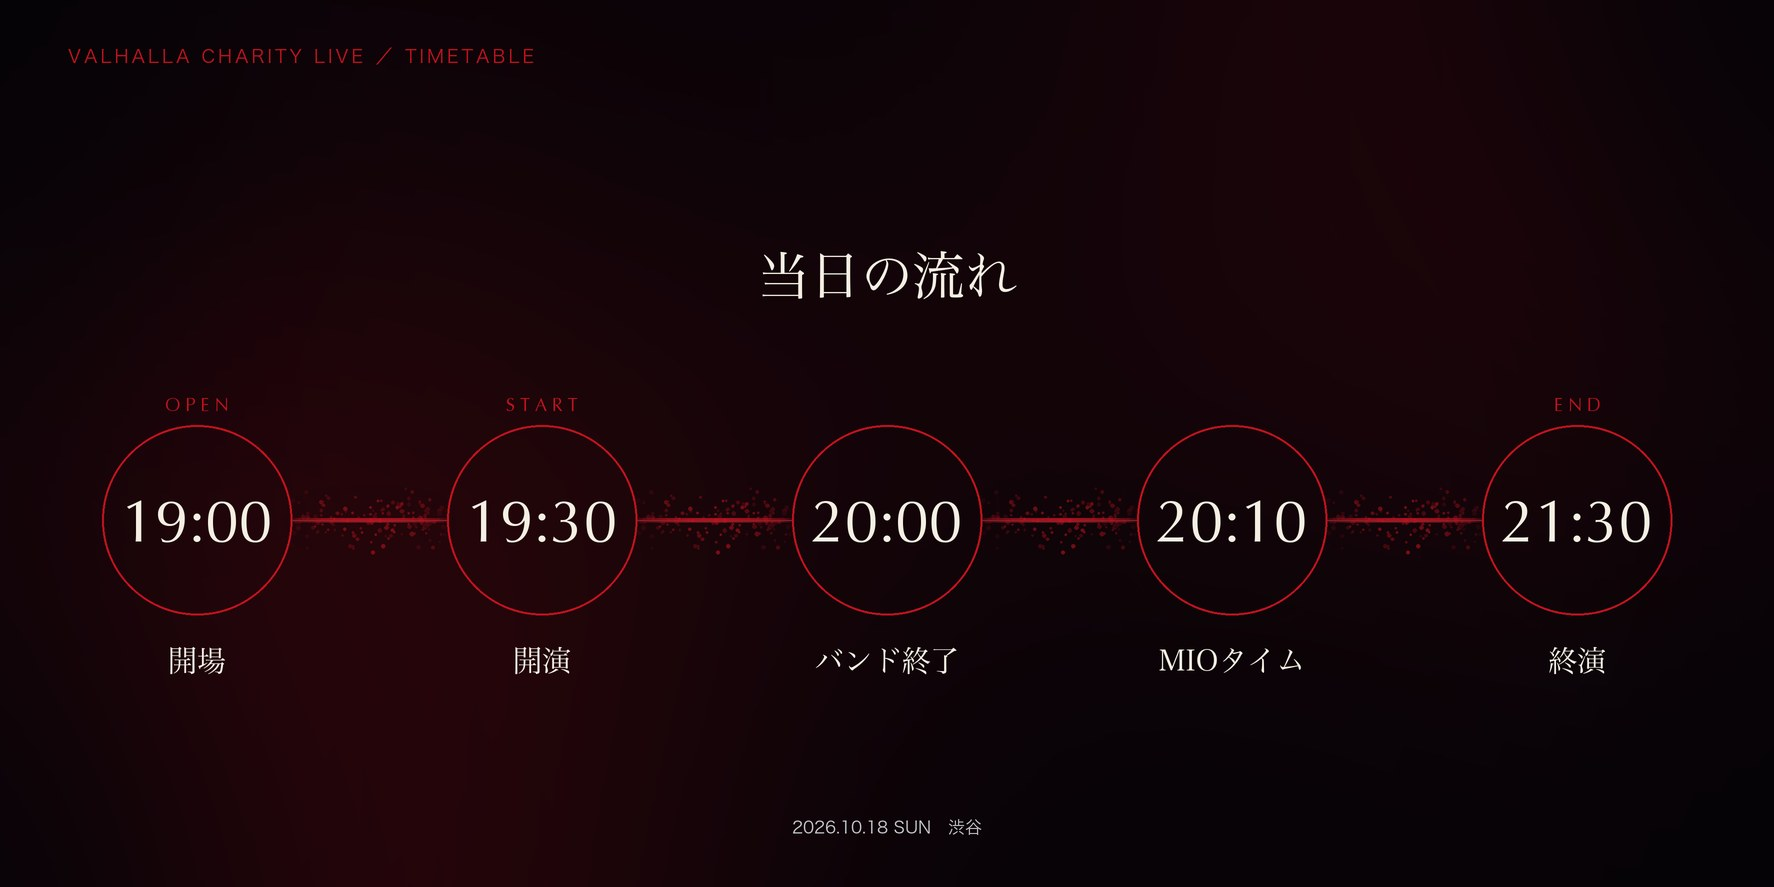
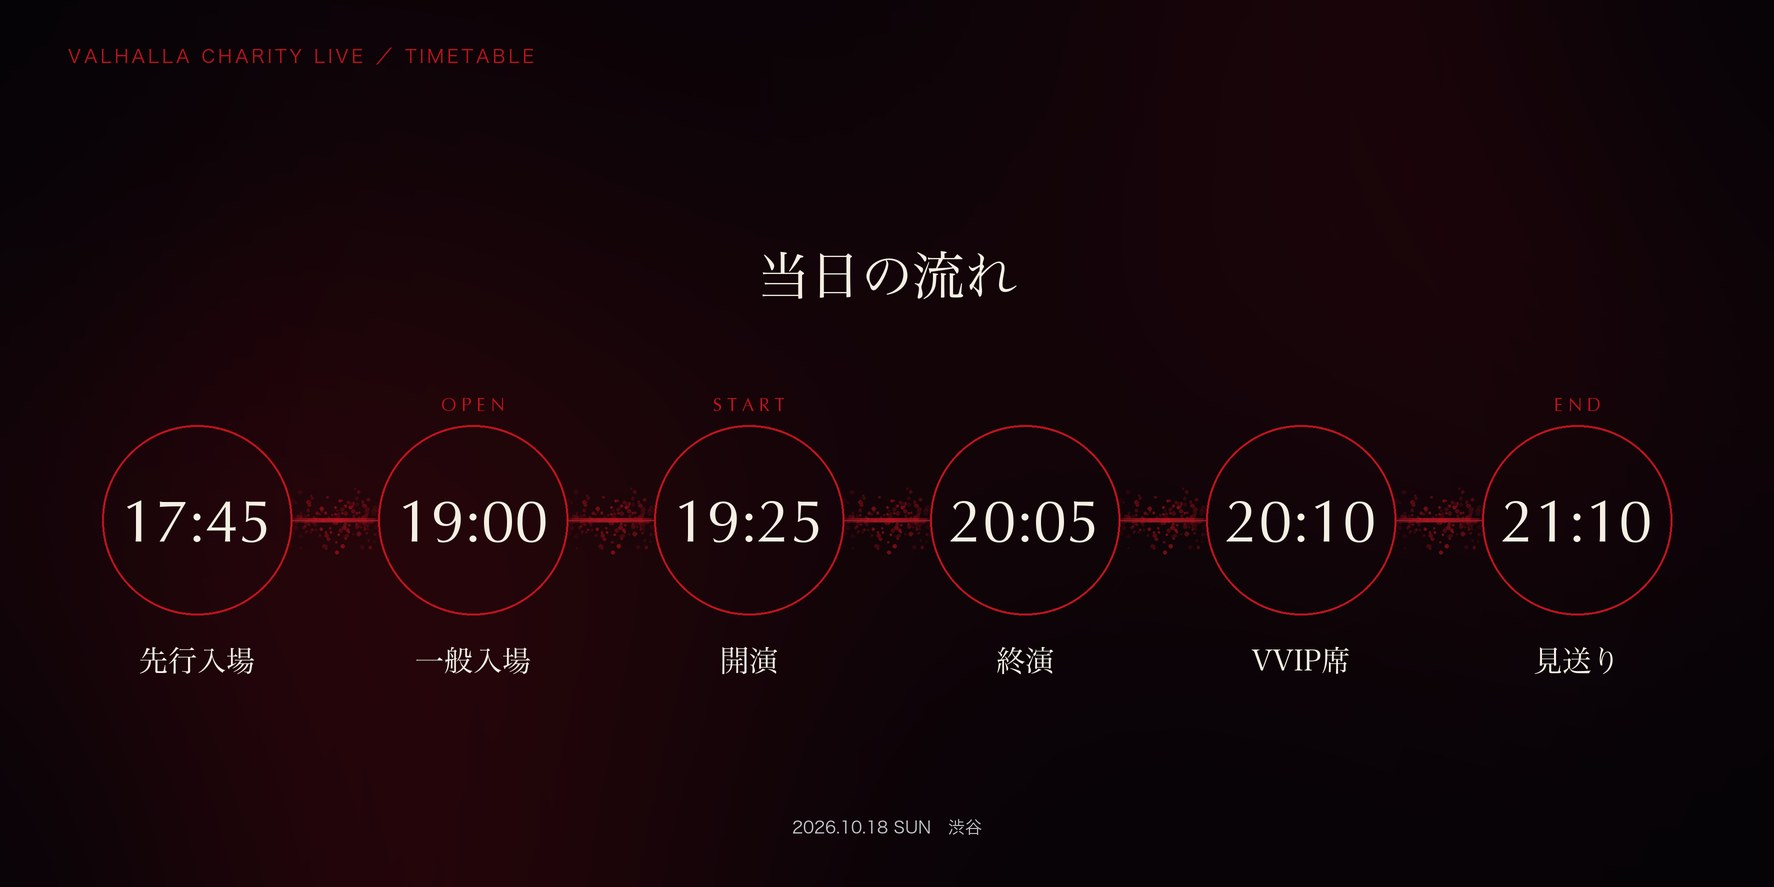
charity: adopt the operational timetable (B案) and correct the seat counts
kazuma から届いた運営版タイムテーブルとその訂正を反映。

- タイムテーブルを公開版として組み直し
  17:45 先行入場 / 19:00 一般入場 / 19:25 開演 / 20:05 終演 /
  20:10 VVIP席 / 21:10 見送り
  ※ 設営16:30・リハ17:00・撤収22:00 は内部情報のため公開版には出さない
- MIOタイム: 20席・20:10〜 -> 20名・17:55〜(開演前の先行入場枠)
- VVIP席: 10卓・20:30〜 -> 10名・20:10〜21:10、「各卓を巡回」から
  「MIOと1対1で6分前後」へ(運営版に 10口×6分・1対1 と明記されていたため)
- 開演 19:30 -> 19:25、終演 21:30 -> 21:10

会場150名の内訳が確定: ライブ席100 + 5万席20 + MIOタイム20 + VVIP10 = 150

diff --git a/campfire-preview.html b/campfire-preview.html
@@ -107,7 +107,7 @@ code{background:#f0f0f0;padding:1px 5px;border-radius:3px;font-size:13px}
 <h2 id="s6">6. イベント概要</h2>
 <ul>
 <li><strong>イベント名</strong>：VALHALLA CHARITY LIVE</li>
-<li><strong>日時</strong>：2026年10月18日（日） OPEN 19:00 ／ START 19:30 ／ 終演 21:30</li>
+<li><strong>日時</strong>：2026年10月18日（日） OPEN 19:00 ／ START 19:25 ／ 終演 21:10</li>
 <li><strong>会場</strong>：<strong>渋谷</strong>〔会場名は後日発表します〕</li>
 <li><strong>出演</strong>：VALHALLA（MIO / RAY / KØU）</li>
 <li><strong>内容</strong>：アコースティックライブ ＆ スペシャルタイム</li>
@@ -126,11 +126,14 @@ code{background:#f0f0f0;padding:1px 5px;border-radius:3px;font-size:13px}
 <img src="assets/charity/timetable_banner.jpg" alt="">
 </figure>
 <ul>
-<li><strong>19:00</strong>　開場</li>
-<li><strong>19:30</strong>　開演（VALHALLA アコースティックライブ）</li>
-<li><strong>20:00</strong>　バンド終了</li>
-<li><strong>20:10</strong>　MIOタイム</li>
-<li><strong>21:30</strong>　終演</li>
+<li><strong>17:45</strong>　VVIP席・MIOタイム 先行入場</li>
+<li><strong>17:55</strong>　MIOタイム（チェキ・動画撮影）</li>
+<li><strong>19:00</strong>　一般入場開始</li>
+<li><strong>19:20</strong>　入場締切</li>
+<li><strong>19:25</strong>　ライブ開演</li>
+<li><strong>20:05</strong>　ライブ終演</li>
+<li><strong>20:10</strong>　VVIP席（MIO と1対1）</li>
+<li><strong>21:10</strong>　見送り</li>
 </ul>
 <h2 id="s7">7. 出演者</h2>
 <p><strong>まず、音を聴いてください。</strong></p>
@@ -167,7 +170,7 @@ code{background:#f0f0f0;padding:1px 5px;border-radius:3px;font-size:13px}
 <li>アコースティックライブ観覧〔※ライブ観覧が付くかを確定〕</li>
 </ul>
 <hr>
-<p><strong>【MIOタイム】150,000円</strong><span class="tbd">〔20席／20:10〜〕</span></p>
+<p><strong>【MIOタイム】150,000円</strong><span class="tbd">〔20名／17:55〜・先行入場〕</span></p>
 <ul>
 <li>MIO とのチェキ撮影（お一人1分）／動画撮影OK</li>
 <li><strong>やしろ語録動画</strong>（MIO の言葉を1つ選び、本人に語ってもらい撮影）</li>
@@ -176,10 +179,10 @@ code{background:#f0f0f0;padding:1px 5px;border-radius:3px;font-size:13px}
 <li>アコースティックライブ観覧</li>
 </ul>
 <hr>
-<p><strong>【VVIP席】330,000円</strong><span class="tbd">〔10卓／20:30〜〕</span></p>
+<p><strong>【VVIP席】330,000円</strong><span class="tbd">〔10名／20:10〜21:10〕</span></p>
 <ul>
-<li><strong>MIO が各卓を5分前後ずつ巡回し、直接お話しします</strong></li>
-<li><strong>卓へのシャンパンサービス</strong>〔銘柄・本数は調整中〕</li>
+<li><strong>MIO と1対1で、6分前後お話しいただけます</strong></li>
+<li><strong>シャンパンサービス</strong>〔銘柄・本数は調整中〕</li>
 <li>チェキ／写真／動画OK</li>
 <li><strong>限定名刺</strong>（QRコードから限定シャンパンコール動画を視聴できます）</li>
 <li>アコースティックライブ観覧</li>
@@ -191,7 +194,7 @@ code{background:#f0f0f0;padding:1px 5px;border-radius:3px;font-size:13px}
 </ul>
 <hr>
 <p><strong>■ ファンミーティングについて</strong>50,000円以上のコース（社bot／MIOタイム／VVIP席）には、すべて<strong>別日のファンミーティング</strong>が付きます。対面・30分のグループセッション形式です。<span class="tbd">〔定員・開催回数は §4 参照〕</span></p>
-<p><strong>■ 当日、MIO と直接お話しできるのは VVIP席のみです。</strong>MIOタイムはチェキ・動画の撮影、VVIP席は各卓での会話、という違いになります。</p>
+<p><strong>■ 当日、MIO と直接お話しできるのは VVIP席のみです。</strong>MIOタイムはチェキ・動画の撮影、VVIP席は1対1での会話、という違いになります。</p>
 <p>※ 物販の実施はありません。※ チケットは電子チケットを2026年10月上旬にメールでお送りします。当日受付にてご提示ください。※ お席は主催者にて指定させていただきます。</p>
 <h2 id="s9">9. スケジュール</h2>
 <ul>

diff --git a/assets/charity/create_returns_banner.py b/assets/charity/create_returns_banner.py
@@ -177,11 +177,11 @@ def add_cards(base: Image.Image) -> None:
          ("アコースティックライブ観覧",)),
         ("BOT", "社bot", "¥50,000", "",
          ("社bot を期間限定で利用可", "別日 ファンミーティング")),
-        ("MIO TIME", "MIOタイム", "¥150,000", "20席 ／ 20:10〜",
+        ("MIO TIME", "MIOタイム", "¥150,000", "20名 ／ 17:55〜",
          ("チェキ（1分）／動画OK", "やしろ語録動画", "限定名刺",
           "別日 ファンミーティング", "ライブ観覧")),
-        ("VVIP", "VVIP席", "¥330,000", "10卓 ／ 20:30〜",
-         ("MIOが各卓を巡回", "シャンパンサービス", "チェキ／写真／動画OK", "限定名刺",
+        ("VVIP", "VVIP席", "¥330,000", "10名 ／ 20:10〜",
+         ("MIOと1対1で6分", "シャンパンサービス", "チェキ／写真／動画OK", "限定名刺",
           "ライブ観覧", "別日 ファンミーティング30分")),
         ("ARCHIVE", "アーカイブ視聴", "¥5,000", "来場不要",
          ("当日のライブ映像を後日視聴", "お礼のメール")),
@@ -243,8 +243,8 @@ def add_header(base: Image.Image) -> None:
 def add_footer(base: Image.Image) -> None:
     d = ImageDraw.Draw(base)
     text = (
-        "2026.10.18 SUN　渋谷　OPEN 19:00 ／ START 19:30 ／ "
-        "終演 21:30　※収益は必要経費を除いた全額を寄付します"
+        "2026.10.18 SUN　渋谷　OPEN 19:00 ／ START 19:25 ／ "
+        "終演 21:10　※収益は必要経費を除いた全額を寄付します"
     )
     footer_font = face(SANS, 16)
     if d.textlength(text, font=footer_font) > (W - 100) * SCALE:

diff --git a/assets/charity/create_timetable_banner.py b/assets/charity/create_timetable_banner.py
@@ -157,7 +157,7 @@ def ring(draw: ImageDraw.ImageDraw, center: tuple[int, int], diameter: int,
 
 def add_nodes(base: Image.Image) -> None:
     # Five equal-size nodes on an exact 345 px rhythm, centered on the canvas.
-    centers_x = (197, 542, 887, 1232, 1577)
+    centers_x = (197, 473, 749, 1025, 1301, 1577)
     cy, diameter = 520, 190
 
     # Keep the crimson ribbon strictly between adjacent circles.
@@ -178,9 +178,9 @@ def add_nodes(base: Image.Image) -> None:
     cue_font = face(LATIN, 18)
     time_font = face(LATIN, 60)
     label_font = face(MINCHO, 29)
-    cues = ("OPEN", "START", "", "", "END")
-    times = ("19:00", "19:30", "20:00", "20:10", "21:30")
-    labels = ("開場", "開演", "バンド終了", "MIOタイム", "終演")
+    cues = ("", "OPEN", "START", "", "", "END")
+    times = ("17:45", "19:00", "19:25", "20:05", "20:10", "21:10")
+    labels = ("先行入場", "一般入場", "開演", "終演", "VVIP席", "見送り")
     for x, cue, time, label in zip(centers_x, cues, times, labels):
         if cue:
             cue_width = sum(td.textlength(char, font=cue_font) for char in cue)

diff --git a/docs/campfire-project-body.md b/docs/campfire-project-body.md
@@ -19,7 +19,7 @@
 - **キャッチコピー**：**「ビジュアル系文化を守り、継ぐ。」**
 - **サブ**：アコースティックライブ ＆ スペシャルタイム
 - **イベント名**：VALHALLA CHARITY LIVE
-- **日時**：2026.10.18 SUN ／ **OPEN 19:00 ／ START 19:30**
+- **日時**：2026.10.18 SUN ／ **OPEN 19:00 ／ START 19:25**
 - **会場**：CÉ LA VI TOKYO（渋谷・17F）／ 東京都渋谷区道玄坂1-2-3 東急プラザ渋谷 17F
 - **出演**：**MIO（社美緒）／ RAY（零）／ KØU（コウ）** ※**この並び順が公式**
 - **主催**：**VALHALLA**
@@ -228,7 +228,7 @@
 ### 6. イベント概要
 
 - **イベント名**：VALHALLA CHARITY LIVE
-- **日時**：2026年10月18日（日） OPEN 19:00 ／ START 19:30 ／ 終演 21:30
+- **日時**：2026年10月18日（日） OPEN 19:00 ／ START 19:25 ／ 終演 21:10
 - **会場**：**渋谷**〔会場名は後日発表します〕
 - **出演**：VALHALLA（MIO / RAY / KØU）
 - **内容**：アコースティックライブ ＆ スペシャルタイム
@@ -251,11 +251,14 @@
 
 【画像】`assets/charity/timetable_banner.jpg`
 
-- **19:00**　開場
-- **19:30**　開演（VALHALLA アコースティックライブ）
-- **20:00**　バンド終了
-- **20:10**　MIOタイム
-- **21:30**　終演
+- **17:45**　VVIP席・MIOタイム 先行入場
+- **17:55**　MIOタイム（チェキ・動画撮影）
+- **19:00**　一般入場開始
+- **19:20**　入場締切
+- **19:25**　ライブ開演
+- **20:05**　ライブ終演
+- **20:10**　VVIP席（MIO と1対1）
+- **21:10**　見送り
 
 ### 7. 出演者
 
@@ -305,7 +308,7 @@ YouTube「Mio Yashiro TV」登録者〔27万〕人。
 
 ──────────────
 
-**【MIOタイム】150,000円**〔20席／20:10〜〕
+**【MIOタイム】150,000円**〔20名／17:55〜・先行入場〕
 
 ・MIO とのチェキ撮影（お一人1分）／動画撮影OK
 ・**やしろ語録動画**（MIO の言葉を1つ選び、本人に語ってもらい撮影）
@@ -315,10 +318,10 @@ YouTube「Mio Yashiro TV」登録者〔27万〕人。
 
 ──────────────
 
-**【VVIP席】330,000円**〔10卓／20:30〜〕
+**【VVIP席】330,000円**〔10名／20:10〜21:10〕
 
-・**MIO が各卓を5分前後ずつ巡回し、直接お話しします**
-・**卓へのシャンパンサービス**〔銘柄・本数は調整中〕
+・**MIO と1対1で、6分前後お話しいただけます**
+・**シャンパンサービス**〔銘柄・本数は調整中〕
 ・チェキ／写真／動画OK
 ・**限定名刺**（QRコードから限定シャンパンコール動画を視聴できます）
 ・アコースティックライブ観覧
@@ -334,7 +337,7 @@ YouTube「Mio Yashiro TV」登録者〔27万〕人。
 対面・30分のグループセッション形式です。〔定員・開催回数は §4 参照〕
 
 **■ 当日、MIO と直接お話しできるのは VVIP席のみです。**
-MIOタイムはチェキ・動画の撮影、VVIP席は各卓での会話、という違いになります。
+MIOタイムはチェキ・動画の撮影、VVIP席は1対1での会話、という違いになります。
 
 ※ 物販の実施はありません。
 ※ チケットは電子チケットを2026年10月上旬にメールでお送りします。当日受付にてご提示ください。
